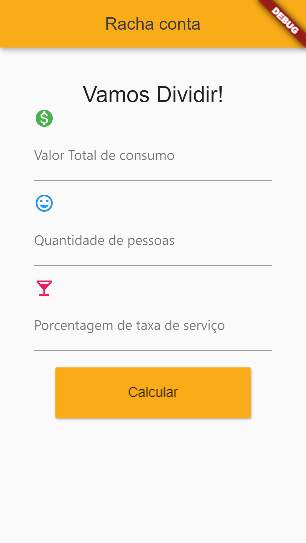
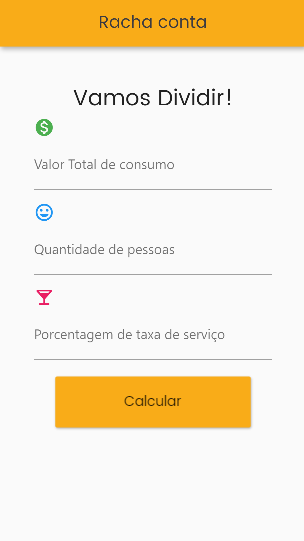
Enhancement Fotos

diff --git a/lib/consumo_total.dart b/lib/consumo_total.dart
@@ -34,6 +34,10 @@ class ConsumoTotalState extends State<ConsumoTotal> {
     String result_individual;
 
     return MaterialApp(
+        debugShowCheckedModeBanner: false,
+        theme: ThemeData(
+          primarySwatch: Colors.orange,
+        ),
         home: Scaffold(
             /* Função que preenche os espaços da tela, barra de cima... */
             appBar: AppBar(

diff --git a/lib/taxa_servico.dart b/lib/taxa_servico.dart
@@ -91,7 +91,7 @@ class _TaxaServicoPageState extends State<TaxaServicoPage> {
               height: 60.0,
               child: RaisedButton(
                 child: Text(
-                  'Mesmo valor para todos',
+                  'Próximo passo',
                   style: TextStyle(
                     fontSize: 16,
                     fontFamily: 'Popins',
